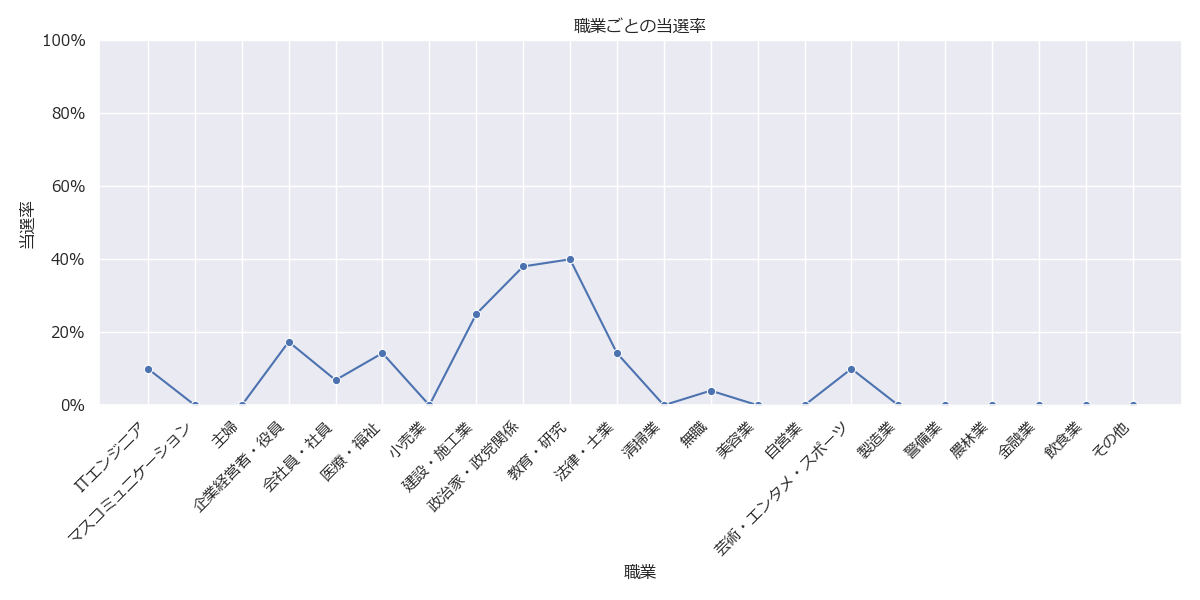
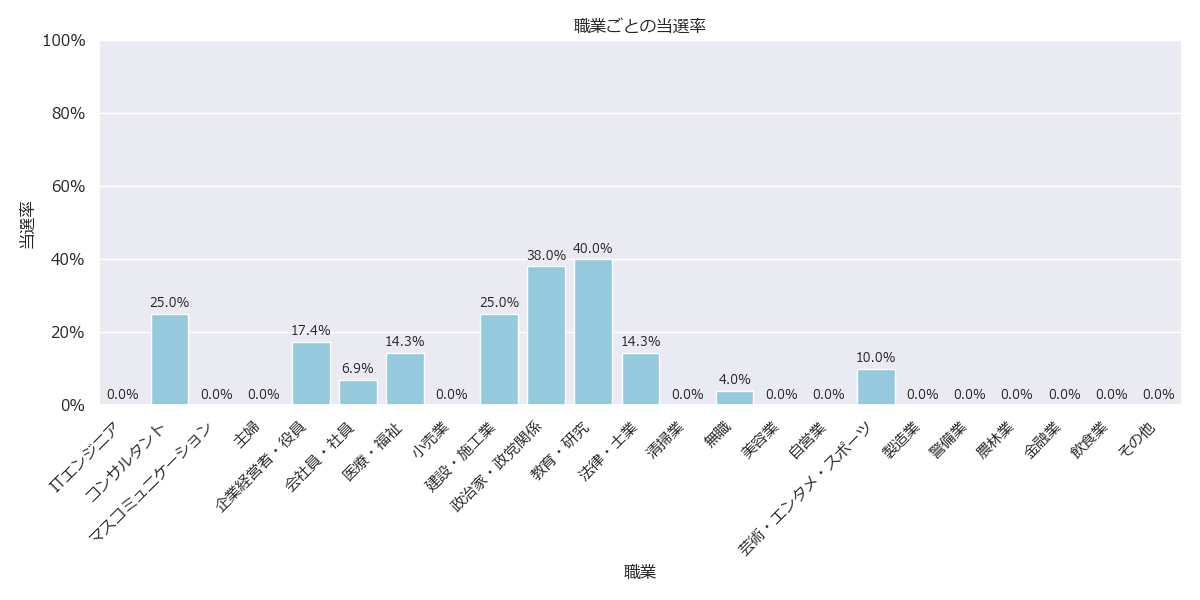
Initial Commit

Changed region(s): [[0.0308, 0.39, 0.9558, 0.9], [0.5858, 0.84, 0.6475, 0.93], [0.925, 0.63, 0.9867, 0.66]]

diff --git a/python Scripts/data_analysis_job.py b/python Scripts/data_analysis_job.py
@@ -11,17 +11,22 @@ job_outcome = pd.crosstab(df['職業(分類)'], df['当落'])
 order = [job for job in job_outcome.index if job != 'その他'] + ['その他']
 job_outcome = job_outcome.reindex(order)
 
-#当選率の折れ線グラフ
+# 当選率の計算
 job_outcome['当選率'] = job_outcome['当'] / job_outcome.sum(axis=1)
 
+# 棒グラフに変更
 plt.figure(figsize=(12,6))
-sns.lineplot(x=job_outcome.index, y=job_outcome['当選率'], marker='o')
+sns.barplot(x=job_outcome.index, y=job_outcome['当選率'], color="skyblue")
+
+# ラベルを追加
+for i, v in enumerate(job_outcome['当選率']):
+    plt.text(i, v + 0.01, f"{v*100:.1f}%", ha='center', va='bottom', fontsize=9)
+
 plt.title('職業ごとの当選率')
 plt.xlabel('職業')
 plt.ylabel('当選率')
 plt.ylim(0,1)
 plt.gca().yaxis.set_major_formatter(plt.FuncFormatter(lambda y, _: f'{int(y*100)}%'))
 plt.xticks(rotation=45, ha='right')
-plt.grid(True)
 plt.tight_layout()
 plt.show()

diff --git a/python Scripts/data_cleaning.py b/python Scripts/data_cleaning.py
@@ -51,7 +51,7 @@ def categorize_job(job):
         return "金融業"
     elif any(x in job for x in ["音楽","シンガー","ダンス","コメディアン","イベント","プロレス","格闘","YouTuber","作家","スイミングアドバイザー","空手道指導者"]):
         return "芸術・エンタメ・スポーツ"
-    elif any(x in job for x in ["IT","エンジニア","システム","コンサル","中小企業診断士"]):
+    elif any(x in job for x in ["IT","エンジニア","システム"]):
         return "ITエンジニア"
     elif any(x in job for x in ["コンサル","中小企業診断士"]):
         return "コンサルタント"
